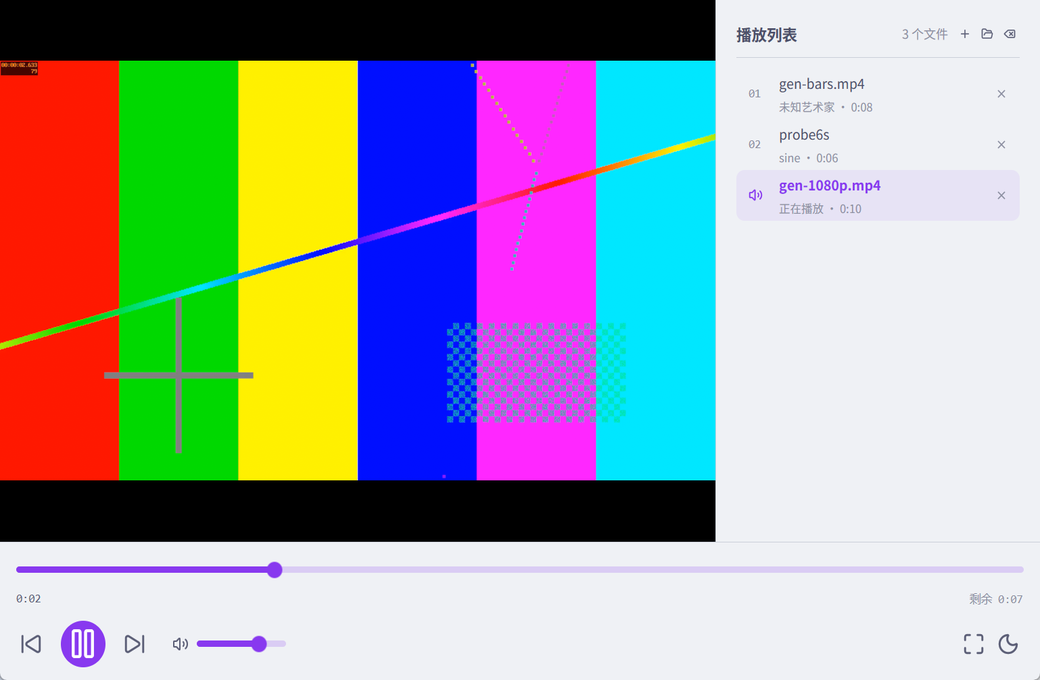
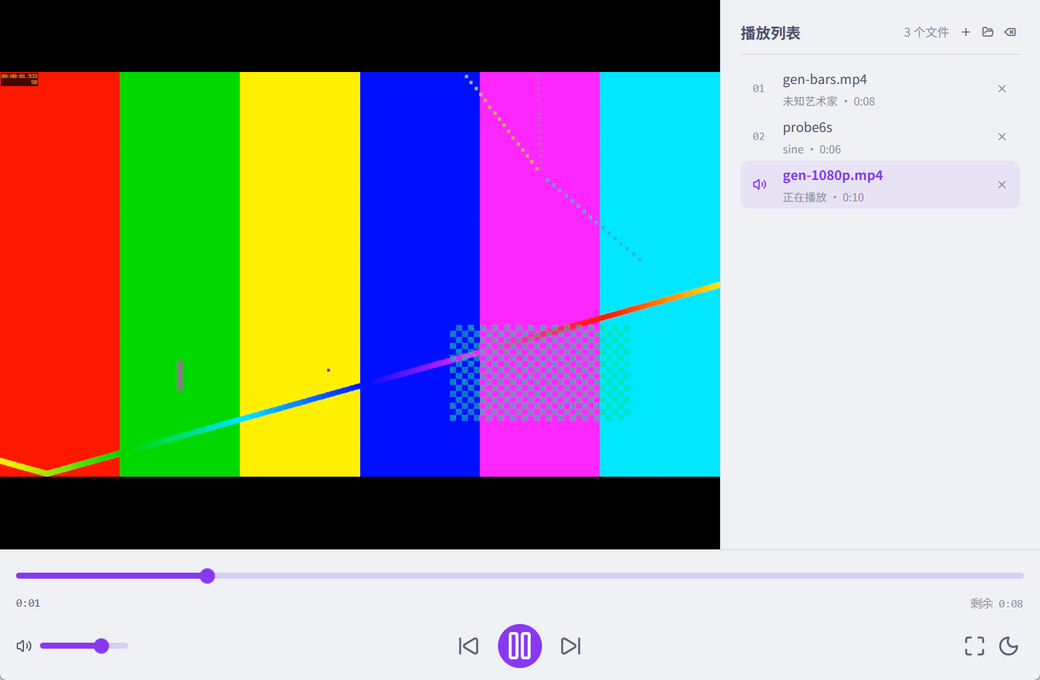
fix(ui): 走带控制真正居中；release 改为 GUI 子系统，双击不再弹 cmd
走带居中：\n- 原 justify_between 把走带和音量塞在同一个左侧组，右侧只有两个图标，\n  两组宽度不等 → 走带被挤到偏左\n- 改三段式：左音量 flex_1（靠左）· 中间走带 flex_shrink_0 · 右功能 flex_1（靠右），\n  两侧等宽（flex: 1 1 0%）→ 中间栏数学上必落在窗口正中\n- 实测截图播放按钮圆心 519.5 vs 图像中心 520.0\n- 新增 UI 测试 transport_controls_are_horizontally_centered（圆心偏移 ≤1px + 两侧间距对称）\n\n控制台窗口：\n- Rust bin 默认 console 子系统，双击 exe 先开 cmd\n- 加 cfg_attr(not(debug_assertions) & windows, windows_subsystem = "windows")\n  release=PE Subsystem 2（GUI），debug 仍为 3（保留控制台看 eprintln!）\n- 验证读 PE 头，不靠肉眼；另用探针确认 GUI 子系统下 eprintln! 不 panic\n- release 无 stderr → report_error 同步写 session.log（error: ... 行）\n\n截图工具：\n- SetWindowPos 设的是外框尺寸（1560×1020 只给 1538×964 客户区），\n  改用 AdjustWindowRectExForDpi 反推，截图恢复严格 1:1\n- 轮询等窗口外框位置稳定再截，避免 DWM 动画期间截出左侧黑边\n\n验证：player-core 15 + app 14 全绿，clippy 代码级 0 告警；\n发布包重打并校验 subsystem=2、干净 APPDATA 启动+优雅退出 code 0

diff --git a/crates/app/src/player_view.rs b/crates/app/src/player_view.rs
@@ -247,7 +247,10 @@ impl PlayerView {
     /// 并排队等下一次 tick 统一弹 toast（tick 里有 window 可用）。
     fn report_error(&mut self, message: impl Into<SharedString>) {
         let message = message.into();
+        // release 版是 GUI 子系统（双击不再有控制台），所以诊断信息不能只靠
+        // eprintln!，必须同时落进 session.log，否则用户报障时手上什么都没有。
         eprintln!("{message}");
+        crate::persistence::log_session(&format!("error: {message}"));
         self.last_error = Some(message.clone());
         self.pending_errors.push(message);
     }
@@ -1168,7 +1171,11 @@ impl PlayerView {
             )
     }
 
-    /// 控制行：左（上一首 / 播放 / 下一首 / 音量）· 右（全屏 / 换肤）。
+    /// 控制行：左（音量）· 中（上一首 / 播放 / 下一首）· 右（全屏 / 换肤）。
+    ///
+    /// 左、右两栏都是 `flex_1`（`flex: 1 1 0%`，即等宽），所以中间那栏必然落在
+    /// 窗口正中。早先用 `justify_between` 把走带按钮和音量塞在同一组里，左侧内容
+    /// 比右侧多，走带就被挤到偏左的位置——这正是"播放控制没有居中"的原因。
     fn render_controls_row(&self, cx: &mut Context<Self>) -> Div {
         let theme = cx.theme();
         let is_dark = theme.mode.is_dark();
@@ -1190,10 +1197,33 @@ impl PlayerView {
         h_flex()
             .w_full()
             .items_center()
-            .justify_between()
-            // ---- 左：走带控制 + 音量 ----
+            .gap(px(12.))
+            // ---- 左：音量（flex_1，内容靠左） ----
             .child(
                 h_flex()
+                    .flex_1()
+                    .min_w_0()
+                    .items_center()
+                    .gap(px(8.))
+                    .child(
+                        Icon::new(volume_icon)
+                            .size(px(16.))
+                            .text_color(theme.secondary_foreground),
+                    )
+                    .child(
+                        div()
+                            .id("volume-bar")
+                            .aria_label("音量")
+                            .w(px(88.))
+                            .flex()
+                            .test_support()
+                            .child(Slider::new(&self.volume).bg(theme.primary)),
+                    ),
+            )
+            // ---- 中：走带控制（不参与伸缩，恒在窗口正中） ----
+            .child(
+                h_flex()
+                    .flex_shrink_0()
                     .items_center()
                     .gap(px(14.))
                     .child(
@@ -1230,32 +1260,15 @@ impl PlayerView {
                             .on_click(cx.listener(|this, _e, _w, cx| {
                                 this.skip(1, cx);
                             })),
-                    )
-                    .child(
-                        h_flex()
-                            .ml(px(8.))
-                            .items_center()
-                            .gap(px(8.))
-                            .child(
-                                Icon::new(volume_icon)
-                                    .size(px(16.))
-                                    .text_color(theme.secondary_foreground),
-                            )
-                            .child(
-                                div()
-                                    .id("volume-bar")
-                                    .aria_label("音量")
-                                    .w(px(88.))
-                                    .flex()
-                                    .test_support()
-                                    .child(Slider::new(&self.volume).bg(theme.primary)),
-                            ),
                     ),
             )
-            // ---- 右：全屏（仅视频） + 明暗切换 ----
+            // ---- 右：全屏（仅视频） + 明暗切换（flex_1，内容靠右） ----
             .child(
                 h_flex()
+                    .flex_1()
+                    .min_w_0()
                     .items_center()
+                    .justify_end()
                     .gap(px(4.))
                     .when(is_video, |el| {
                         el.child(

diff --git a/scripts/shot.py b/scripts/shot.py
@@ -50,8 +50,19 @@ user32.SetWindowPos.argtypes = [
     ctypes.c_int, ctypes.c_int, ctypes.c_uint,
 ]
 user32.GetClientRect.argtypes = [wintypes.HWND, ctypes.POINTER(wintypes.RECT)]
+user32.GetWindowRect.argtypes = [wintypes.HWND, ctypes.POINTER(wintypes.RECT)]
 user32.ClientToScreen.argtypes = [wintypes.HWND, ctypes.POINTER(wintypes.POINT)]
 user32.GetDpiForWindow.argtypes = [wintypes.HWND]
+user32.GetWindowLongW.argtypes = [wintypes.HWND, ctypes.c_int]
+user32.GetWindowLongW.restype = ctypes.c_long
+try:
+    user32.AdjustWindowRectExForDpi.argtypes = [
+        ctypes.POINTER(wintypes.RECT), ctypes.c_uint32, wintypes.BOOL,
+        ctypes.c_uint32, ctypes.c_uint32,
+    ]
+    HAS_ADJUST_DPI = True
+except AttributeError:  # Win10 1607 之前没有这个 API
+    HAS_ADJUST_DPI = False
 
 cmd = [str(exe)] + (["--dark"] if dark else [])
 log = root / "target" / "shot-stderr.log"
@@ -66,9 +77,40 @@ if not hwnd:
 
 scale = user32.GetDpiForWindow(hwnd) / 96.0
 phys_w, phys_h = round(width * scale), round(height * scale)
-user32.SetWindowPos(hwnd, HWND_TOPMOST, 0, 0, phys_w, phys_h, SWP_SHOWWINDOW)
+
+# SetWindowPos 设的是**窗口**尺寸，客户区会少掉边框和标题栏（实测 1560 的外框
+# 只给出 1538 的客户区），截完再拉伸就会让 1px 的边距对不上。这里先按目标客户区
+# 反推外框尺寸，保证截图是严格的 1:1 逻辑像素。
+outer_w, outer_h = phys_w, phys_h
+if HAS_ADJUST_DPI:
+    style = user32.GetWindowLongW(hwnd, -16)  # GWL_STYLE
+    exstyle = user32.GetWindowLongW(hwnd, -20)  # GWL_EXSTYLE
+    frame = wintypes.RECT(0, 0, phys_w, phys_h)
+    if user32.AdjustWindowRectExForDpi(
+        ctypes.byref(frame), style, False, exstyle, round(scale * 96)
+    ):
+        outer_w = frame.right - frame.left
+        outer_h = frame.bottom - frame.top
+
+user32.SetWindowPos(hwnd, HWND_TOPMOST, 0, 0, outer_w, outer_h, SWP_SHOWWINDOW)
 user32.SetForegroundWindow(hwnd)
-time.sleep(0.6)
+
+
+def window_rect():
+    r = wintypes.RECT()
+    user32.GetWindowRect(hwnd, ctypes.byref(r))
+    return (r.left, r.top, r.right, r.bottom)
+
+
+# 窗口移动/改尺寸后 DWM 还会补一段动画，抢在这之前截图会截到窗口还没挪到位
+# 的桌面（表现为图左边多一条黑边）。等到外框位置连续两次采样一致再动手。
+last = window_rect()
+for _ in range(40):
+    time.sleep(0.1)
+    now = window_rect()
+    if now == last and now[0] >= 0 and now[1] >= 0:
+        break
+    last = now
 
 # 需要交互（点播放列表某一行）时，直接给窗口投递鼠标消息，
 # 不移动真实光标——避免截图里混进悬停态。

diff --git a/crates/app/src/ui_tests.rs b/crates/app/src/ui_tests.rs
@@ -344,3 +344,39 @@ fn layout_keeps_playlist_and_controls_inside_window(cx: &mut TestAppContext) {
     })
     .unwrap();
 }
+
+/// 走带控制（上一首 / 播放 / 下一首）必须落在窗口水平正中。
+///
+/// 这里守的是一个很容易回归的布局写法：左右两栏宽度不等时（例如
+/// `justify_between` 把音量也塞进左侧组），中间那组会被挤到偏左的位置。
+#[gpui_kit::test]
+fn transport_controls_are_horizontally_centered(cx: &mut TestAppContext) {
+    fresh_dir("centered");
+    let (window, _view) = open_view(cx, Vec::new());
+
+    cx.update_window(window, |_, window, cx| {
+        window.render_frame(cx);
+
+        let play = window.find("play-pause").bounds();
+        let prev = window.find("prev").bounds();
+        let next = window.find("next").bounds();
+        let window_bounds = window.bounds();
+
+        let offset = play.center().x - window_bounds.center().x;
+        assert!(
+            offset.as_f32().abs() <= 1.0,
+            "播放按钮应居中：圆心偏移 {offset:?}（窗口 {window_bounds:?}，按钮 {play:?}）"
+        );
+
+        // 走带三键次序正确、间距对称
+        assert!(prev.right() <= play.left(), "上一首应在播放左侧");
+        assert!(next.left() >= play.right(), "下一首应在播放右侧");
+        let left_gap = play.left() - prev.right();
+        let right_gap = next.left() - play.right();
+        assert!(
+            (left_gap - right_gap).as_f32().abs() <= 1.0,
+            "两侧间距应对称：{left_gap:?} vs {right_gap:?}"
+        );
+    })
+    .unwrap();
+}

diff --git a/crates/app/src/main.rs b/crates/app/src/main.rs
@@ -1,3 +1,10 @@
+// release 版按 GUI 程序链接（PE subsystem = Windows），双击 exe 不会再弹一个 cmd 窗口。
+// debug 版保留控制台子系统，方便直接看到 eprintln! 诊断输出。
+#![cfg_attr(
+    all(not(debug_assertions), target_os = "windows"),
+    windows_subsystem = "windows"
+)]
+
 //! Simple Media Player — 主入口
 //!
 //! M1（Stage 2+3）：音频播放内核 + 播放列表管理。

diff --git a/.workbuddy/memory/2026-10-18.md b/.workbuddy/memory/2026-10-18.md
@@ -281,3 +281,61 @@ Theme::update(cx, |t| { t.light_theme = light; t.dark_theme = dark; t.apply_conf
 - 进度轨道的"未播放段"是 Mauve 20%（Slider 上游把 track 定为 fill 色的 20% 透明度），
   设计稿是 Surface1 灰。要精确得自绘进度条或给上游提 PR（和 Slider 键盘支持是同一处）。
 - `dist/simple-media-player-1.0.0.zip` 里还是旧皮肤的 exe，需要的话重跑 `scripts/package.ps1`。
+
+---
+
+# 2026-10-18 — 设计稿：控制栏新增快退/快进（Ardot 737444551354649）
+
+## 1. 改动
+
+用户在播放键左右各加 ±10s 圆形箭头按钮，macOS 与 Windows 两页同步。
+
+中部传输组从「上一集 / 播放 / 下一集」扩成五件套「上一集 / 快退10 / 播放 / 快进10 / 下一集」，**gap 28→20**（3 个元素时 28 合适，5 个就散了）。
+
+| 页 | 中部传输组 | 新增节点 |
+|---|---|---|
+| macOS | `2:236` | `12:1` 快退组 / `12:6` 快进组，插入 index 1 与 3 |
+| Windows | `2:307` | `12:12` 快退组 / `12:17` 快进组，同样 index 1 与 3 |
+
+## 2. 图标规格
+
+- 容器 **24×24**（比既有的 20×20 上一集/下一集大一级——要容纳「10」数字，20 塞不下）。
+- SVG：圆弧半径 9、`stroke-width` 1.6、缺口 90°、箭头位于弧端点沿切线方向；色 `#4C4F69`。
+- 数字「10」是**独立的 TEXT 节点**（Inter Medium 8px，x7.6 / y7.4）叠在弧心，**不能用 SVG `<text>`**——字体依赖不可靠，导出时会掉字。
+
+## 3. 踩坑：SVG 镜像不能用 `<g transform="scale(-1 1)">`
+
+写了 `transform="translate(24 0) scale(-1 1)"` 包住路径做快进图标，Ardot 解析后报
+**degenerate geometry（0×0 / out of frame bounds）**，图标节点插入失败（`12:7`、`12:18`），
+但外层 frame 和数字节点却成功了 → 表现为"空的组"（只有数字没有箭头），排查时容易误以为布局问题。
+
+**正确做法**：手算镜像 path，`x → 24-x`，并翻转 arc 的 sweep-flag。
+- 快退：`M12 3A9 9 0 1 0 21 12` + 箭头 `M11.8 3.2L15.2 0.9L15.2 5.5Z`
+- 快进：`M12 3A9 9 0 1 1 3 12` + 箭头 `M12.2 3.2L8.8 0.9L8.8 5.5Z`
+
+## 4. 验证
+
+截 `2:236` / `2:307` / `2:58` 三张全部通过：五件套居中协调，圆弧缺口方向正确（快退缺口在右上箭头朝左、快进镜像），左右控制组未被挤压（中部实际加宽 72px，剩余约 880 仍充裕）。
+
+## 5. 播放控制居中 + release 不再弹 cmd
+
+用户两处反馈：① 走带按钮没居中；② 双击 exe 先闪一个 cmd 窗口。
+
+**① 居中**：原布局 `justify_between` 把走带和音量塞在同一个左侧组，右侧只有两个图标，
+宽度不等 → 走带被挤到偏左。改成三段式：左音量 `flex_1`（靠左）、中间走带 `flex_shrink_0`、
+右侧全屏+换肤 `flex_1`（靠右）。两侧同为 `flex: 1 1 0%` 等宽 → 中间栏数学上必落在窗口正中。
+实测截图播放按钮圆心 519.5 vs 图像中心 520.0。新增 UI 测试 `transport_controls_are_horizontally_centered`
+（圆心偏移 ≤1px + 两侧间距对称），防回归。
+
+**② 控制台窗口**：Rust bin 默认按 console 子系统链接，双击先开 cmd。加
+`#![cfg_attr(all(not(debug_assertions), target_os = "windows"), windows_subsystem = "windows")]`
+——release = PE subsystem 2（GUI），debug 仍是 3（保留控制台看 `eprintln!`）。
+验证方式：读 PE 头 `OptionalHeader.Subsystem`，不是靠肉眼。
+副作用是 release 没有 stderr，所以 `report_error` 现在**同时**写 `session.log`（`error: ...` 行），
+用户报障至少有据可查。另用探针程序确认：GUI 子系统 + 无控制台句柄时 `eprintln!`/`println!`
+不会 panic（std 把空句柄当空设备），所以不用给所有打印加保护。
+
+**截图工具的第二个坑**：`SetWindowPos` 设的是**外框**尺寸（1560×1020 只得到 1538×964 客户区），
+再用 `ImageGrab` 截客户区会拉伸变形、边距对不上。改用
+`AdjustWindowRectExForDpi` 反推外框，并按 0.1s 轮询等窗口外框位置稳定后再截
+（DWM 动画期间抢截会在图左边留一条黑边）。现在 `client=` 恒等于目标逻辑尺寸 × 缩放比。

diff --git a/.workbuddy/memory/MEMORY.md b/.workbuddy/memory/MEMORY.md
@@ -23,7 +23,9 @@
 - 含中文的 `.ps1` **必须存成 UTF-8 with BOM**，否则 PowerShell 5.1 按 GBK 解 → 乱码 + 语法报错。
 - 诊断开关（保留）：`SMP_MPV_LOG` 存 mpv stderr、`SMP_MPV_TRACE` 存 JSON IPC 双向报文。mpv 对路径重复分隔符不宽容（`C://` → `end-file reason=error file_error="loading failed"`），且该失败在 `--msg-level=all=error` 下 stderr 是空的，只有 IPC 报文能看出真相。
 - 换肤：`ThemeConfig`（`#[serde(default)]` + Default）配 `Theme::update` + `apply_config`。**`ThemeConfigColors` 的 `blue/red/green/cyan/magenta/yellow`(±`_light`) 是私有字段**，crate 外不能用结构体字面量 + `..Default::default()`，只能 `default()` 后逐字段赋值。别在同一个 closure 里既换 mode 又换 config（`installed_by_edit` 会跳过 `apply_config`）。
-- 截图工具（`scripts/shot.py`）**必须先 `SetProcessDpiAwareness(2)`**：否则 Python 按 96dpi 虚拟化，`GetClientRect` 尺寸缩水、`ImageGrab` 只截到窗口左上角（表现为"界面只剩封面，歌单和控制栏消失"）。
+- 截图工具（`scripts/shot.py`）**必须先 `SetProcessDpiAwareness(2)`**：否则 Python 按 96dpi 虚拟化，`GetClientRect` 尺寸缩水、`ImageGrab` 只截到窗口左上角（表现为"界面只剩封面，歌单和控制栏消失"）。另两点：`SetWindowPos` 设的是**外框**尺寸（1560×1020 外框只给 1538×964 客户区），要按目标客户区用 `AdjustWindowRectExForDpi` 反推外框；DWM 动画期间抢截会在图左边留一条黑边，需轮询等外框位置稳定。
+- 发布版必须保持 **GUI 子系统**（`#![cfg_attr(all(not(debug_assertions), target_os="windows"), windows_subsystem="windows")]`），否则双击先弹 cmd。验证读 PE 头 `OptionalHeader.Subsystem`（2=GUI / 3=console），不要靠肉眼。GUI 子系统无 stderr，但 `eprintln!` 在空句柄下不会 panic（std 当空设备），所以 `report_error` 只额外补一条 `session.log` 即可。
+- 布局铁律：要让某一组控件在窗口正中，左右两栏必须**等宽**（都 `flex_1`，`flex: 1 1 0%`）。用 `justify_between` 把内容分左右两组时，两组宽度不等就会把"中间"顶偏——走带控制偏左就是这么来的（2026-10-18 修）。
 
 ## 设计稿要点（详见 2026-10-17 日志）
 - 色板严格取 Catppuccin Latte 官方值；Mauve #8839EF 唯一强调色。

diff --git a/README.md b/README.md
@@ -92,6 +92,10 @@ UI 测试把持久化目录重定向到临时目录（见 `persistence::set_conf
 | 视频打不开、日志只有一句 toast | 设 `SMP_MPV_LOG=%TEMP%\mpv.log` 后重试，mpv 的真实报错在里面 |
 | 想确认命令/事件是否正常 | 设 `SMP_MPV_TRACE=%TEMP%\ipc.log`，逐行记录 IPC 收发 |
 | 应用是否被外部结束 | 看 `%APPDATA%\simple-media-player\session.log`：有 `event loop returned` 是正常退出，只有 `start` 说明被强杀 |
+| 播放失败但界面上只闪了一下提示 | 同一条错误也写进了 `session.log`（`error: 无法播放「…」…`），可以直接翻日志 |
+
+> 发布版是 GUI 子系统程序，**双击 exe 不会带出一个黑底 cmd 窗口**；代价是它没有控制台，
+> 所以诊断信息除了弹 toast，还会同时落到 `session.log`。调试构建保留控制台，`eprintln!` 直接可见。
 
 > 踩过的坑：`playlist.json` 里写成 `C://Users//...`（双斜杠）会导致 mpv 报 `loading failed`，
 > 应用会提示「mpv 无法加载该文件」。路径用标准 `C:\Users\...` 即可。
@@ -104,7 +108,7 @@ UI 测试把持久化目录重定向到临时目录（见 `persistence::set_conf
 |---|---|
 | `playlist.json` | 曲目列表 + 上次播放位置 |
 | `settings.json` | 音量、窗口尺寸 |
-| `session.log` | 启动 / 退出 / panic 留痕（用于区分「主动退出」与「被外部终止」） |
+| `session.log` | 启动 / 退出 / panic / 播放失败原因留痕（用于区分「主动退出」与「被外部终止」） |
 
 ## 架构
 
@@ -159,6 +163,7 @@ GPUI 的 Windows 后端使用 DirectComposition（`WS_EX_NOREDIRECTIONBITMAP`）
 
 尺寸取设计稿的实测值：播放列表 **320px**（padding 20、条目 48、圆角 8）、
 控制栏 padding 16 + gap 12、播放按钮 **44 正圆**、正文字号 13 / 辅助 11 / 标题 15。
+控制行分三段：左端音量、**中间走带控制（上一首 / 播放 / 下一首）恒在窗口正中**、右端全屏与换肤。
 
 刻意与设计稿不同的三处，都是为了适配 mpv 叠加窗口这一架构约束：
 
